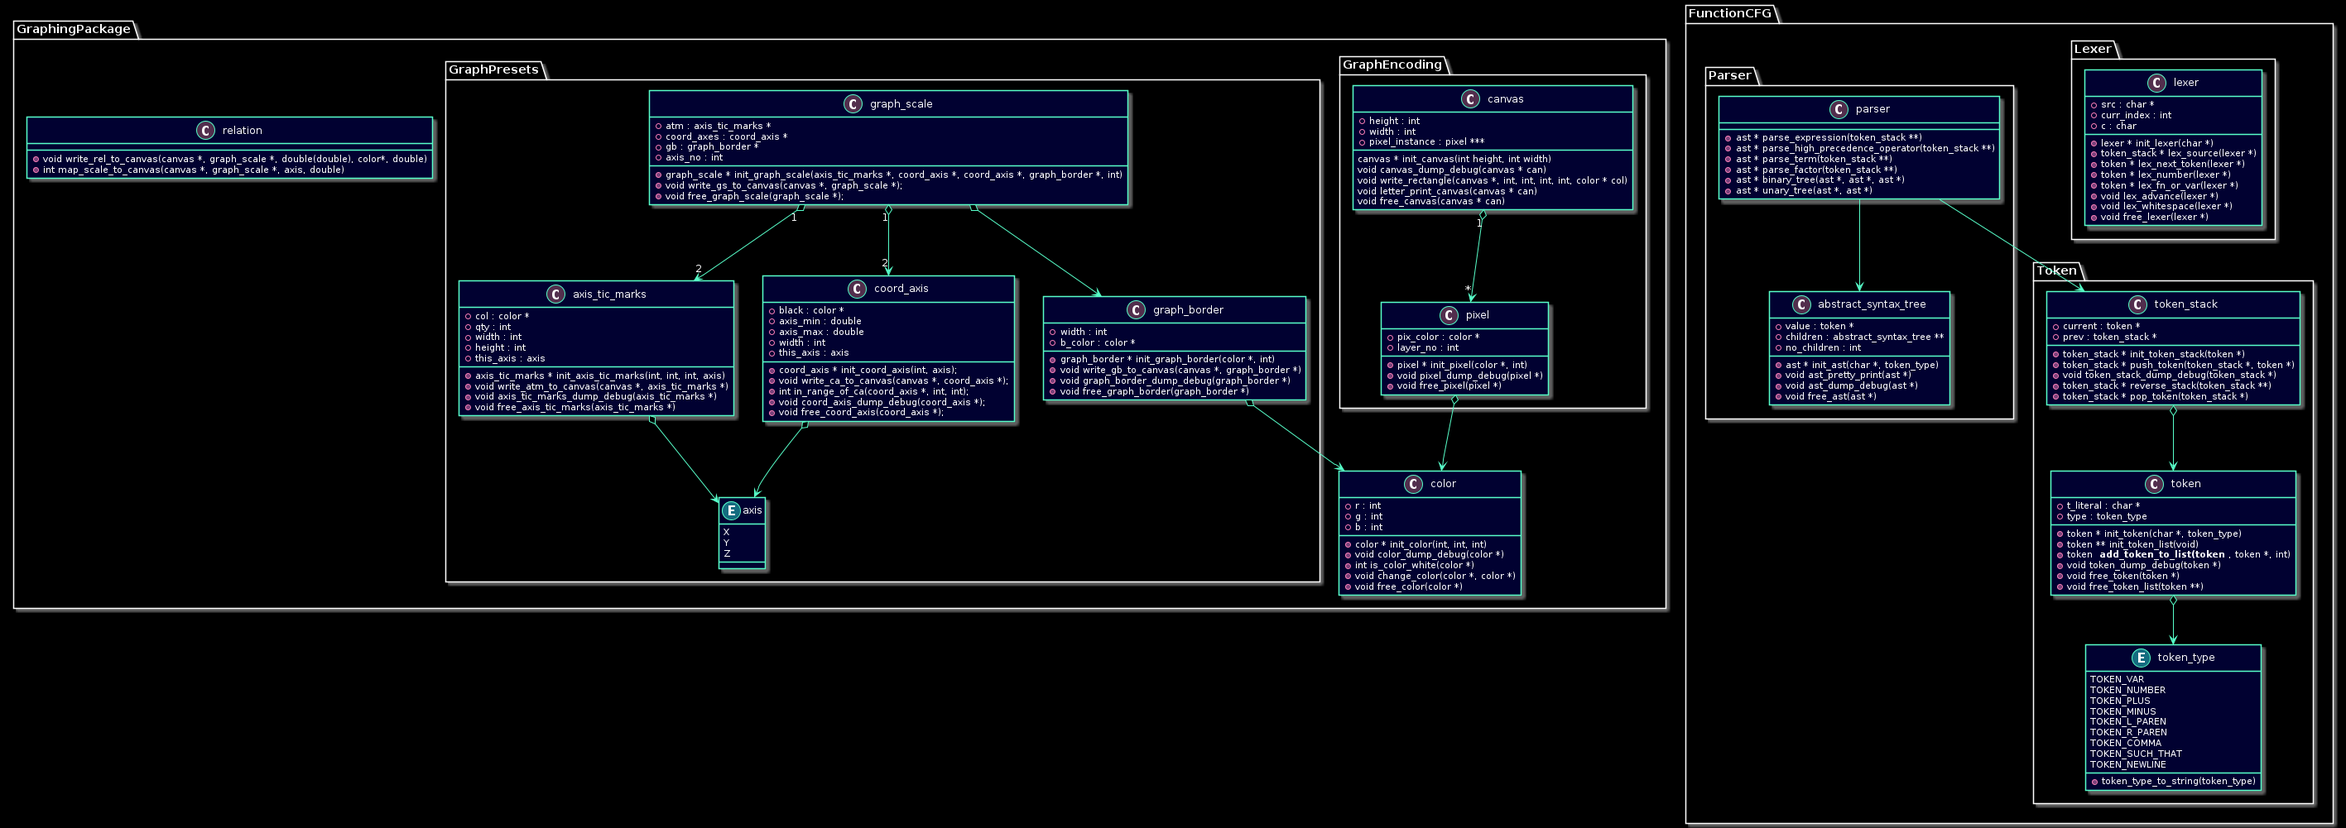
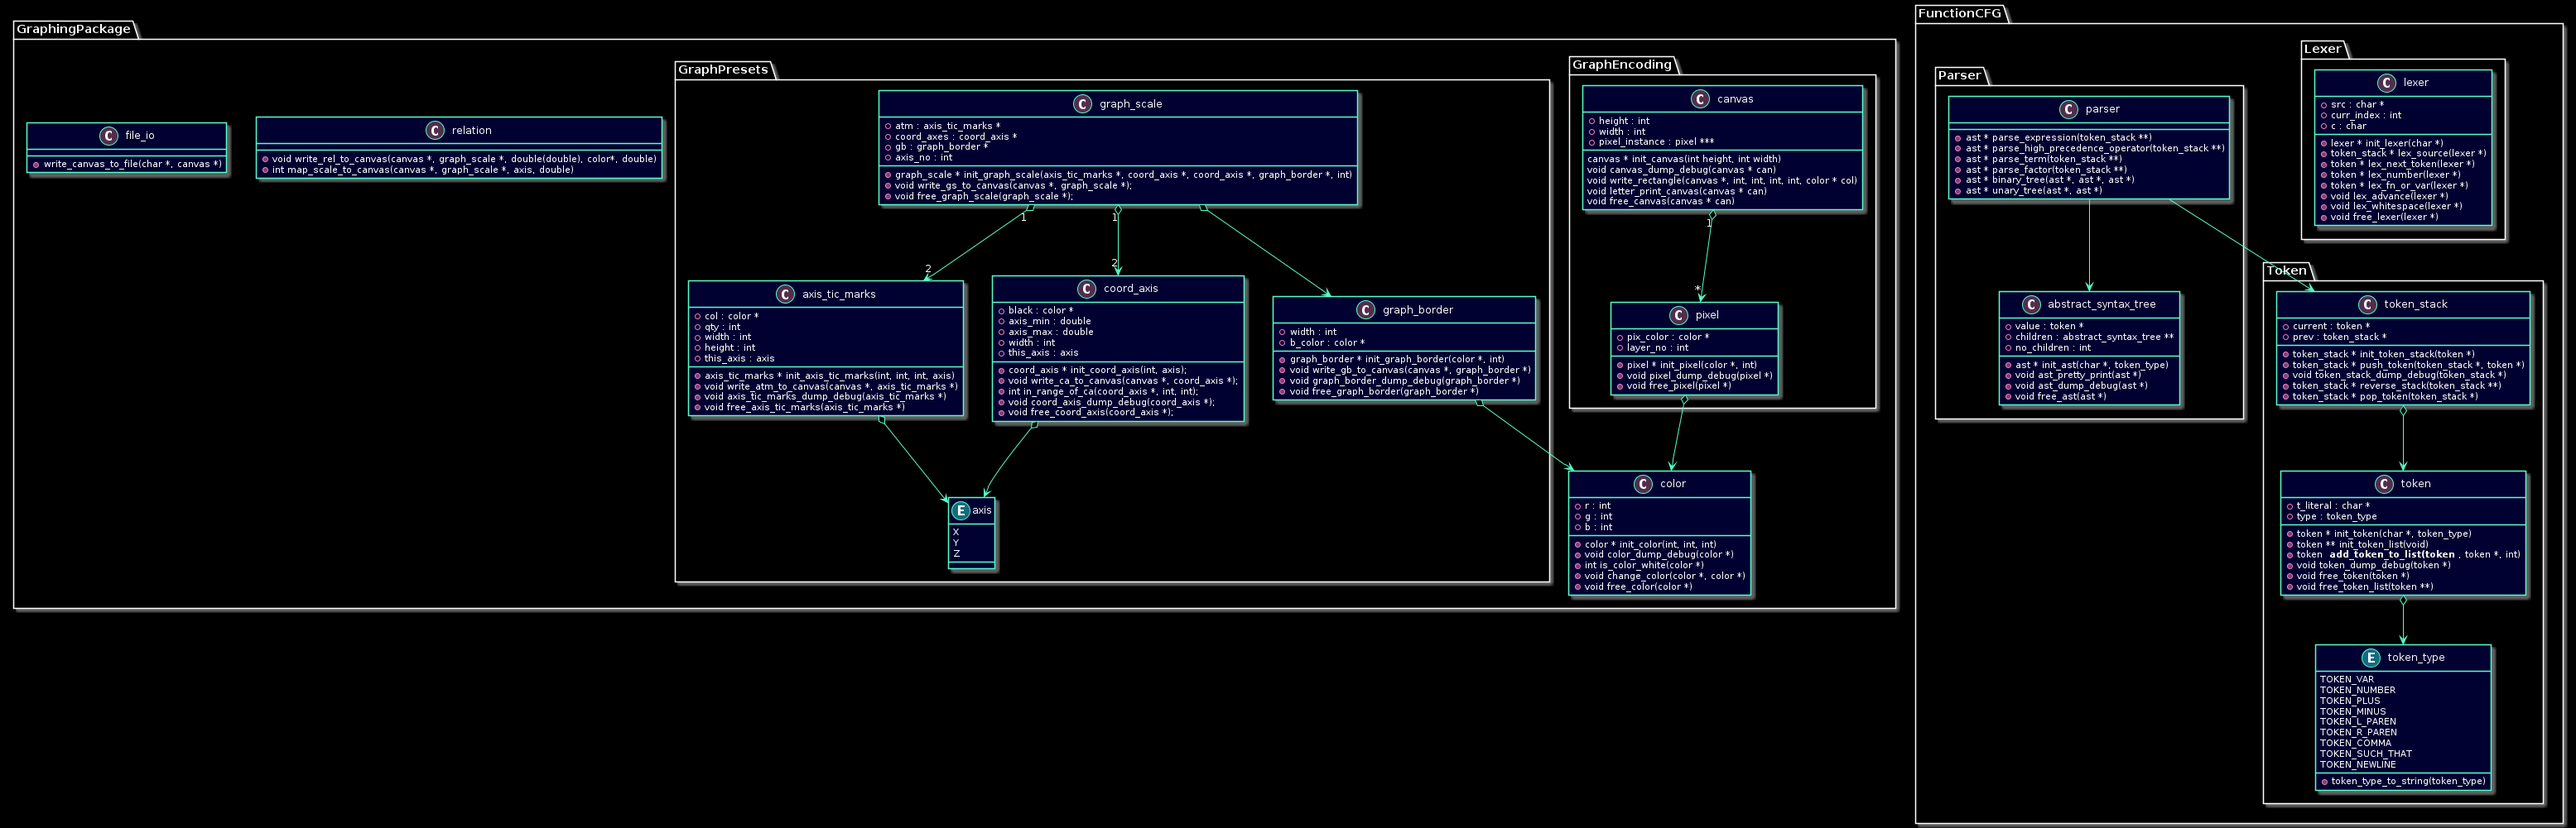
added ability to feed ast into graph

diff --git a/src/main/main.c b/src/main/main.c
@@ -1,9 +1,9 @@
 /**
  * Hard coded graph back end includes
  */
-// #include <math.h>
-// #include "../GraphingPackage/include/relation.h"
-// #include "../GraphingPackage/include/file_io.h"
+#include <math.h>
+#include "../GraphingPackage/include/relation.h"
+#include "../GraphingPackage/include/file_io.h"
 /**
  * Front end includes
  */
@@ -19,38 +19,40 @@ int main(void) {
    * back-end functions have been left for reference for when I return to meet
    * the two
    */
-  // canvas      * can = init_canvas(1000, 1000);
-  // graph_scale * gs = init_graph_scale(
-  //     init_axis_tic_marks(10, 5, 30, X),          // x axis tic marks
-  //     init_axis_tic_marks(10, 30, 5, Y),          // y axis tic marks
-  //     init_coord_axis(-10.0, 10.0, 2, X),         // x axis
-  //     init_coord_axis(-10.0, 10.0, 2, Y),         // y axis
-  //     init_graph_border(init_color(0, 0, 0), 10), // border of graph
-  //     2                                           // no axes (don't change!)
-  //     );
-  // write_gs_to_canvas(can, gs);
-  // color * green = init_color(0, 255, 0);
+  canvas      * can = init_canvas(1000, 1000);
+  graph_scale * gs = init_graph_scale(
+      init_axis_tic_marks(10, 5, 30, X),          // x axis tic marks
+      init_axis_tic_marks(10, 30, 5, Y),          // y axis tic marks
+      init_coord_axis(-20.0, 20.0, 2, X),         // x axis
+      init_coord_axis(-20.0, 20.0, 2, Y),         // y axis
+      init_graph_border(init_color(0, 0, 0), 10), // border of graph
+      2                                           // no axes (don't change!)
+      );
+  write_gs_to_canvas(can, gs);
+  color * green = init_color(0, 255, 0);
   // write_rel_to_canvas(can, gs, x_squared, green, 0.00001);
-  // write_canvas_to_file("test.ppm", can);
-  // free_color(green);
-  // free_canvas(can);
-  // free_graph_scale(gs);
-
-
   /**
    * Front end functions relating to CFG
    */
-  lexer * lex = init_lexer("(2 + x)^(2 * 4 + 1) + 2\n");
+  lexer * lex = init_lexer("x\n");
   token_stack * tok_list = lex_source(lex);
   token_stack * rev = reverse_stack(&tok_list);
 
   ast * abstree = parse_expression(&rev);
-  ast_pretty_print(abstree);
+  write_ast_to_canvas(can, gs, abstree, green, 0.00001);
+  write_canvas_to_file("test.ppm", can);
+  // ast_pretty_print(abstree);
+  // printf("Evaled ast: %f\n", evaluate_tree(abstree, 9.0));
   free_ast(abstree);
 
   if(rev)
     while(rev) rev = pop_token(rev);
   free_lexer(lex);
+  free_color(green);
+  free_canvas(can);
+  free_graph_scale(gs);
+
+
   return 0;
 }
 

diff --git a/src/FunctionCFG/Parser/parser.c b/src/FunctionCFG/Parser/parser.c
@@ -5,8 +5,50 @@
  * @date   June 27, 2022
  * @bug    None known
  * @todo   Nothing
+ * @NOTE   Its worth mentioning that the advantage to using a token_stack as
+ * opposed to a list is that with a list it is very difficult to properly index
+ * things i.e. we use a stack. However, we need to perminently modify the
+ * address of the stack itself thus we pass the address of the stack in to be
+ * modified instead of the value of the stack (i.e. why there are a bunch of
+ * double pointers.  Since we only have one stack, we will only ever index the
+ * fist element of the double pointer).
  */
 #include"include/parser.h"
+
+/**
+ * This function evaluates an abstract syntax tree (i.e. the idea is to pass
+ * this into a write_ast_to_canvas s.t. it can eval at each step)
+ * @param abstree - the abstract syntax tree to be evaluated
+ * @param       x - the variable value
+ * @return     .\ - the value of that level of the ast
+ */
+double evaluate_tree(ast * abstree, double x) {
+  switch(abstree->value->type) {
+    case TOKEN_VAR:
+      return x;
+    case TOKEN_NUMBER:
+      return atof(abstree->value->t_literal);
+    case TOKEN_PLUS:
+      return addition(evaluate_tree(abstree->children[0], x),
+          evaluate_tree(abstree->children[1], x));
+    case TOKEN_MINUS:
+      return subtraction(evaluate_tree(abstree->children[0], x),
+          evaluate_tree(abstree->children[1], x));
+    case TOKEN_MULT:
+      return multiplication(evaluate_tree(abstree->children[0], x),
+          evaluate_tree(abstree->children[1], x));
+    case TOKEN_DIV:
+      return division(evaluate_tree(abstree->children[0], x),
+          evaluate_tree(abstree->children[1], x));
+    case TOKEN_POWER:
+      return pow(evaluate_tree(abstree->children[0], x),
+          evaluate_tree(abstree->children[1], x));
+    default:
+      fprintf(stderr, "`%s`passed to evaluate_tree?\nExiting\n",
+          token_type_to_string(abstree->value->type));
+      exit(1);
+  }
+}
 
 /**
  * This function parses an expression from a token stack. Essentially anything

diff --git a/src/GraphingPackage/relation.c b/src/GraphingPackage/relation.c
@@ -54,6 +54,45 @@ void write_rel_to_canvas(canvas * can, graph_scale * gs, double rel(double),
   }
 }
 
+void write_ast_to_canvas(canvas * can, graph_scale * gs, ast * abstree,
+    color * col, double delta) {
+  double y = 0;
+  int x_index = 0;
+  int y_index = 0;
+  for(double i = gs->coord_axes[0]->axis_min;
+      i < gs->coord_axes[0]->axis_max;
+      i += delta) {
+      y = evaluate_tree(abstree, i);
+      // See y notes for why negative minimums require an if
+      if(gs->coord_axes[0]->axis_min >= 0)
+        x_index = map_scale_to_canvas(can, gs, X, i);
+      else
+        x_index
+          = map_scale_to_canvas(can, gs, X, i - gs->coord_axes[0]->axis_min);
+      /**
+       * Because the canvas y is upside down (i.e. zero is top not bottom) we
+       * need to invert the y index values (hence the can->height - ...).
+       *
+       * If there are negative values in the user defined graph_scale then we
+       * need to add the magnitude of the negative value as map_scale_to_canvas
+       * expects only natural number scalar magnitudes for the mapping (think
+       * about how to map two line segments to one another, that is the method
+       * used).
+       */
+      if(gs->coord_axes[1]->axis_min >= 0)
+        y_index = can->height - map_scale_to_canvas(can, gs, Y, y);
+      else
+        y_index = can->height -
+          (map_scale_to_canvas(can, gs, Y, y - gs->coord_axes[1]->axis_min));
+      if(y < gs->coord_axes[1]->axis_max
+          && y >= gs->coord_axes[1]->axis_min
+          && x_index >= 0 && x_index < can->width
+          && y_index >= 0 && y_index < can->height)
+        if(is_color_white(can->pixel_instance[y_index][x_index]->pix_color))
+          change_color(can->pixel_instance[y_index][x_index]->pix_color, col);
+  }
+}
+
 /**
  * This function takes a quantity in the scale of the relation and maps it to a
  * canvas index

diff --git a/src/FunctionCFG/EvaluationFunctions/double_basic_arithmetic.c b/src/FunctionCFG/EvaluationFunctions/double_basic_arithmetic.c
@@ -1,0 +1,50 @@
+/**
+ * @file    double_basic_arithmetic.c
+ * @brief   this file contains basic functions to help in the evaluation of
+ * abstract syntax trees with respect to those values which are doubles
+ * @author  Matthew C. Lindeman
+ * @date    June 28, 2022
+ * @bug     None known
+ * @todo    Nothing
+ */
+#include "include/double_basic_arithmetic.h"
+
+/**
+ * The addition function. Returns term 1 added by term 2.
+ * @param  t1 - the first term (numerator)
+ * @param  t2 - the second term (denominator)
+ * @return .\ - the result of the addition.
+ */
+double addition(double t1, double t2) {
+  return t1 + t2;
+}
+
+/**
+ * The subtration function. Returns term 1 subtracted by term 2.
+ * @param  t1 - the first term (numerator)
+ * @param  t2 - the second term (denominator)
+ * @return .\ - the result of the subtration.
+ */
+double subtraction(double t1, double t2) {
+  return t1 - t2;
+}
+
+/**
+ * The multiplication function. Returns term 1 multiplied by term 2.
+ * @param  t1 - the first term (numerator)
+ * @param  t2 - the second term (denominator)
+ * @return .\ - the result of the multiplication.
+ */
+double multiplication(double t1, double t2) {
+  return t1 * t2;
+}
+
+/**
+ * The division function. Returns term 1 divided by term 2.
+ * @param  t1 - the first term (numerator)
+ * @param  t2 - the second term (denominator)
+ * @return .\ - the result of the division.
+ */
+double division(double t1, double t2) {
+  return t1 / t2;
+}

diff --git a/src/GraphingPackage/include/relation.h b/src/GraphingPackage/include/relation.h
@@ -9,10 +9,13 @@
 #ifndef REL_H
 #define REL_H
 
+#include "../../FunctionCFG/Parser/include/parser.h"
 #include "../../GraphingPackage/GraphPresets/include/graph_scale.h"
 #include "../../GraphingPackage/include/color.h"
 
 void write_rel_to_canvas(canvas * can, graph_scale * gs, double rel(double),
+    color * col, double delta);
+void write_ast_to_canvas(canvas * can, graph_scale * gs, ast * abstree,
     color * col, double delta);
 int map_scale_to_canvas(canvas * can, graph_scale * gs, axis ax, double qty);
 

diff --git a/src/FunctionCFG/EvaluationFunctions/include/double_basic_arithmetic.h b/src/FunctionCFG/EvaluationFunctions/include/double_basic_arithmetic.h
@@ -1,0 +1,19 @@
+/**
+ * @file   double_basic_arithmetic.h
+ * @brief  This file contains the function definitions for
+ * double_basic_arithmetic.c
+ * @author Matthew C. Lindeman
+ * @date   June 28, 2022
+ * @bug    None known
+ * @todo   Nothing
+ */
+#ifndef DBA_H
+#define DBA_H
+
+double addition(double t1, double t2);
+double subtraction(double t1, double t2);
+double multiplication(double t1, double t2);
+double division(double t1, double t2);
+// Note no power operator as it exists in math.h
+
+#endif

diff --git a/src/FunctionCFG/Parser/include/parser.h b/src/FunctionCFG/Parser/include/parser.h
@@ -9,8 +9,11 @@
 #ifndef PAR_H
 #define PAR_H
 
+#include <math.h>
 #include "abstract_syntax_tree.h"
+#include "../../EvaluationFunctions/include/double_basic_arithmetic.h"
 
+double evaluate_tree(ast * abstree, double x);
 ast * parse_expression(token_stack ** ts);
 ast * parse_high_precedence_operator(token_stack ** ts);
 ast * parse_term(token_stack ** ts);
